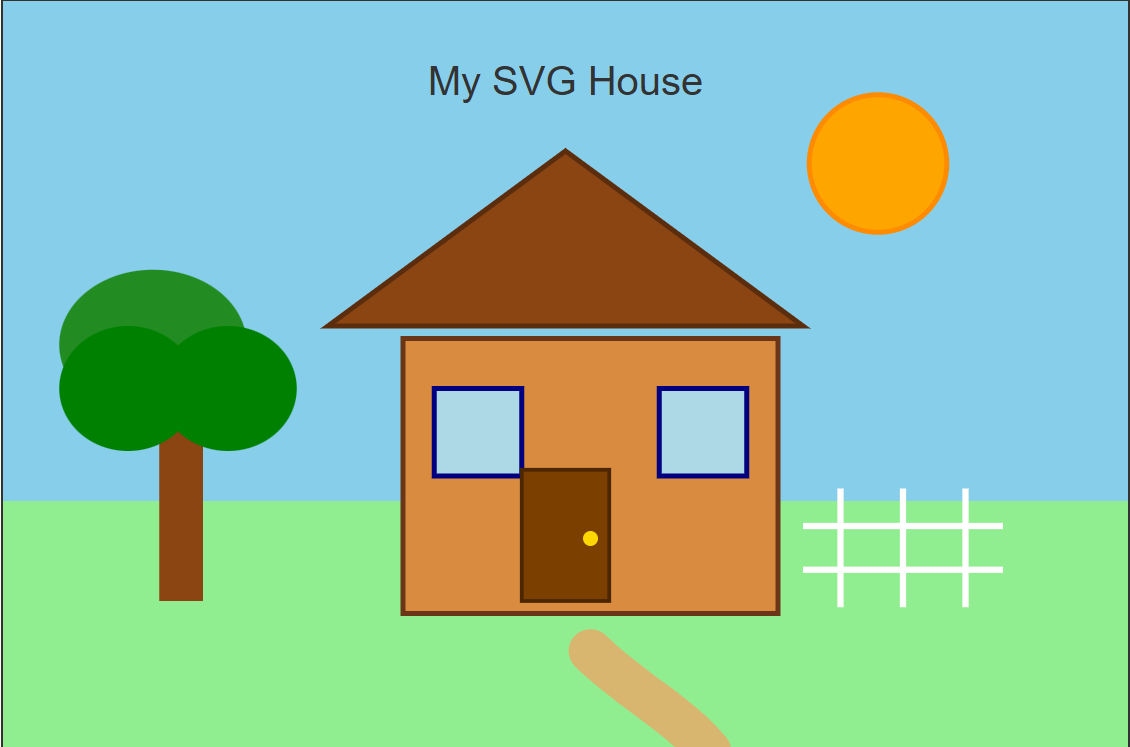
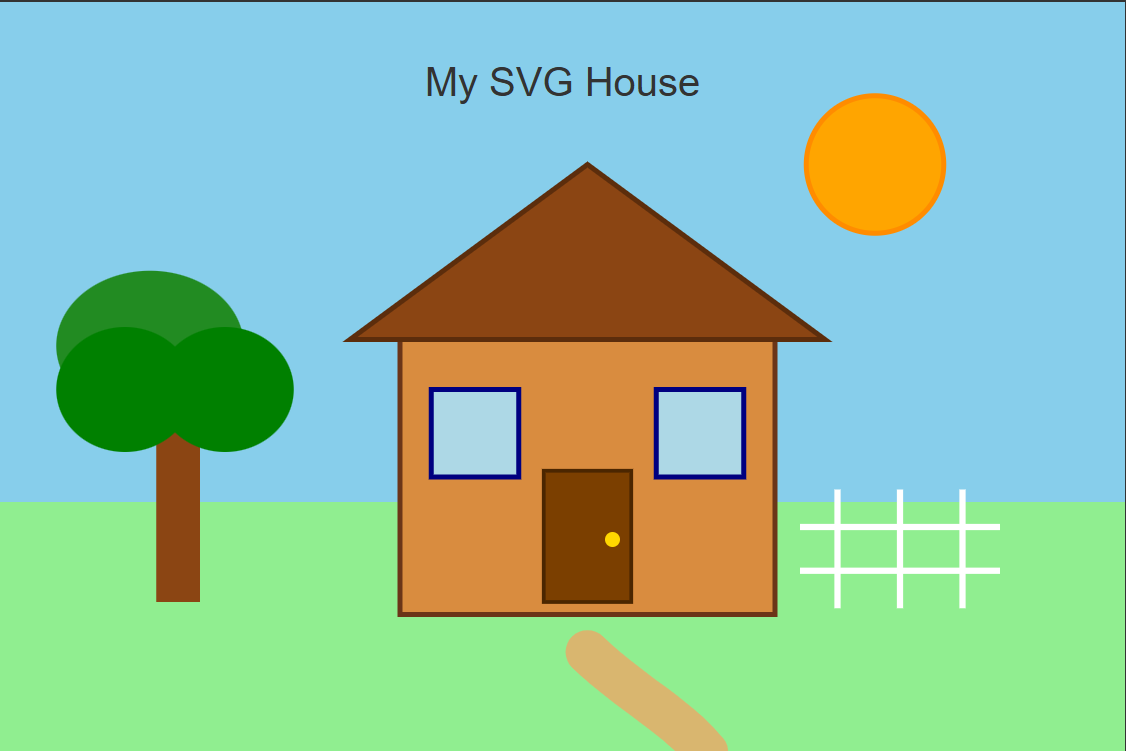
Add annotated SVG coordinates and finalise Exercise 4.1

diff --git a/Exercise 4/Exercise 4.1/exercise4-1.html b/Exercise 4/Exercise 4.1/exercise4-1.html
@@ -55,7 +55,7 @@
                     <rect x="320" y="270" width="300" height="220" fill="#d98c3f" stroke="#6b3518" stroke-width="4" />
 
                     <!-- Roof - path -->
-                    <path d="M260 260 L450 120 L640 260 Z" fill="#8b4513" stroke="#5c2d0c" stroke-width="4" />
+                    <path d="M280 270 L470 130 L660 270 Z" fill="#8b4513" stroke="#5c2d0c" stroke-width="4" />
 
                     <!-- Two windows grouped together -->
                     <g fill="lightblue" stroke="navy" stroke-width="4" transform="translate(345, 310)">
@@ -67,10 +67,10 @@
                     </g>
 
                     <!-- Door -->
-                    <rect x="415" y="375" width="70" height="105" fill="#7b3f00" stroke="#4b2600" stroke-width="3" />
+                    <rect x="435" y="375" width="70" height="105" fill="#7b3f00" stroke="#4b2600" stroke-width="3" />
 
                     <!-- Door handle - circle -->
-                    <circle cx="470" cy="430" r="6" fill="gold" />
+                    <circle cx="490" cy="430" r="6" fill="gold" />
 
                     <!-- Tree trunk -->
                     <rect x="125" y="320" width="35" height="160" fill="saddlebrown" />
@@ -105,6 +105,18 @@
                 </svg>
 
             </div>
+        </section>
+
+        <section class="coordinate-example">
+            <h2>Understanding SVG Coordinates</h2>
+
+            <p>
+                The annotated image below shows how coordinates in the SVG code
+                correspond to the position of different shapes in the drawing.
+            </p>
+
+            <img src="assets/img/svg-coordinates-annotated.png"
+                alt="Annotated SVG house showing coordinates for different SVG shapes">
         </section>
 
         <section class="comparison">
@@ -154,6 +166,18 @@
                         <td>Sun colour</td>
                         <td>fill = gold, stroke = orange</td>
                         <td>fill = orange, stroke = darkorange</td>
+                    </tr>
+
+                    <tr>
+                        <td>Roof path</td>
+                        <td>M260 260 L450 120 L640 260 Z</td>
+                        <td>M280 270 L470 130 L660 270 Z</td>
+                    </tr>
+
+                    <tr>
+                        <td>Door position</td>
+                        <td>x = 415, y = 375</td>
+                        <td>x = 435, y = 375</td>
                     </tr>
 
                     <tr>

diff --git a/Exercise 4/Exercise 4.1/assets/css/style.css b/Exercise 4/Exercise 4.1/assets/css/style.css
@@ -302,3 +302,18 @@ footer {
         flex-direction: column;
     }
 }
+
+.coordinate-example {
+    max-width: 1100px;
+    margin: 40px auto;
+    padding: 20px;
+}
+
+.coordinate-example img {
+    display: block;
+    width: 100%;
+    max-width: 1000px;
+    height: auto;
+    margin: 20px auto;
+    border: 1px solid #333;
+}
